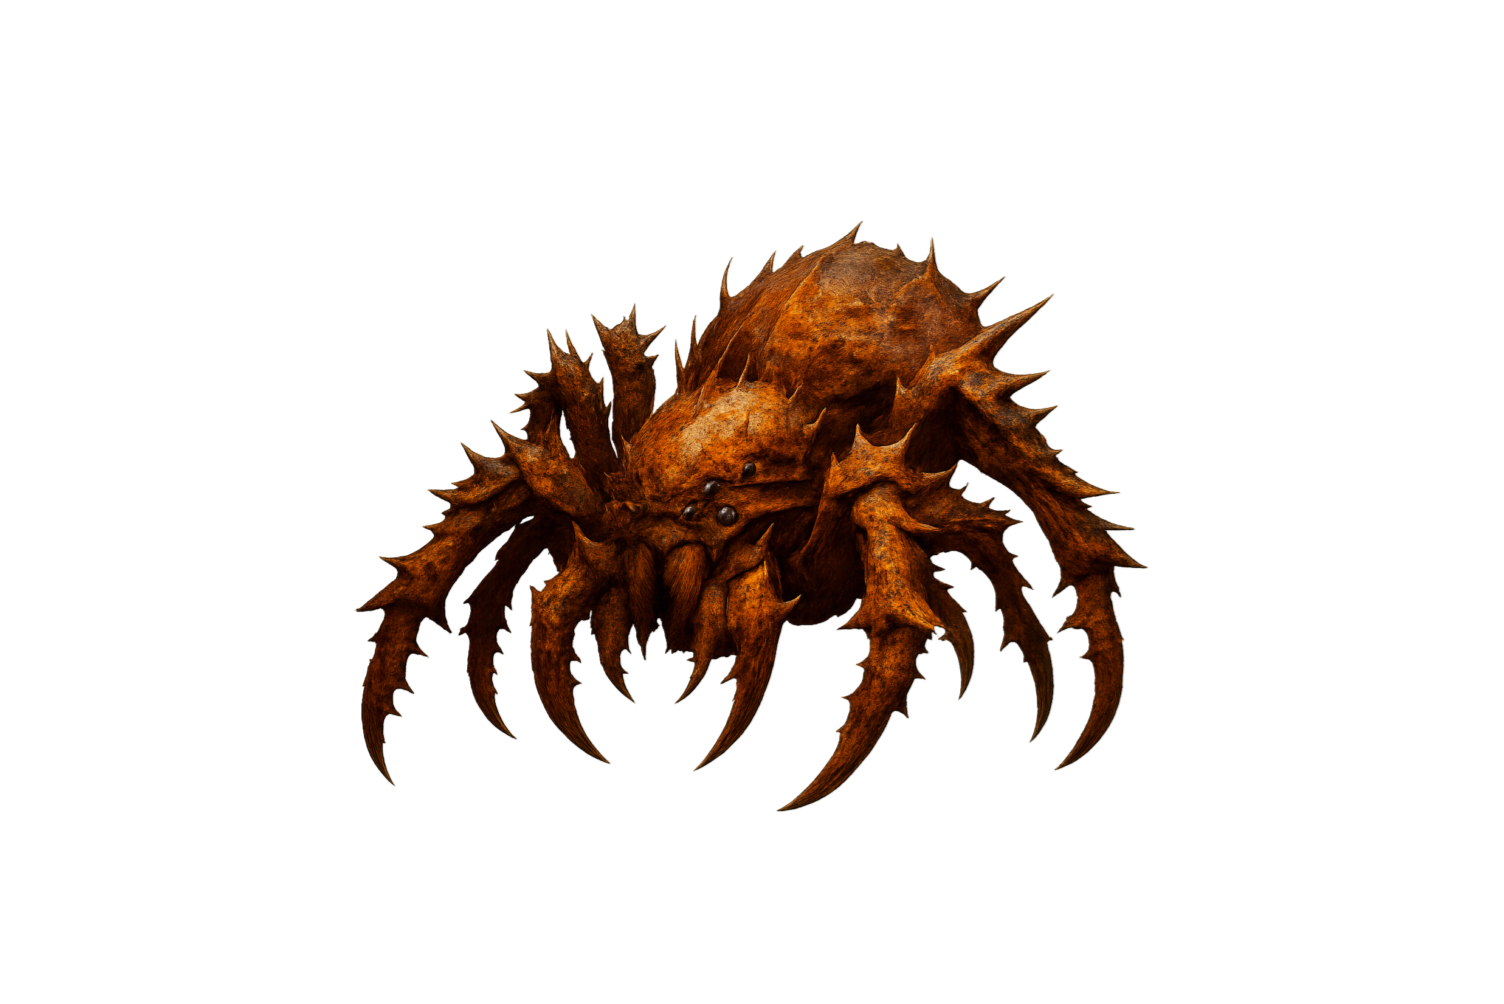
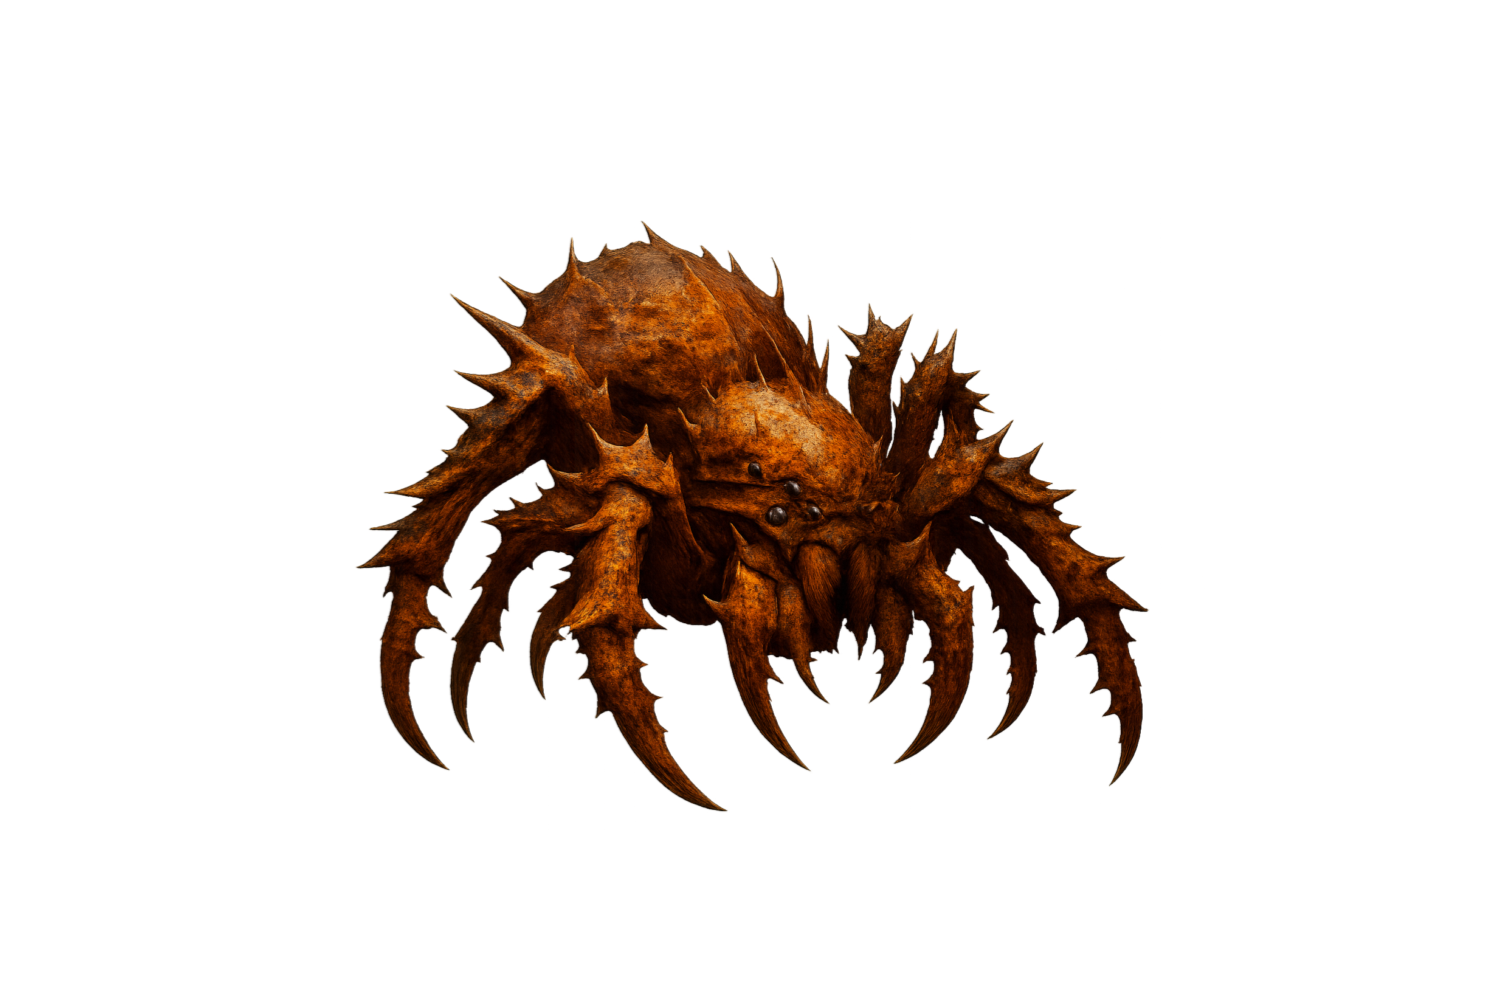
Update live files for new elements in Analytics

Changed region(s): [[0.2188, 0.2161, 0.7812, 0.8028]]

diff --git a/live/js/combat.js b/live/js/combat.js
@@ -165,6 +165,8 @@ async function startCombat(i) {
   const expBar = document.getElementById("exp-bar-container");
   const style = getCurrentWeaponStyle();
 
+  Analytics.startCombat();
+  
   masteryBar.classList.remove(`hidden`);
   //console.log(`masteryBar`, masteryBar);
   expBar.classList.add(`hidden`);
@@ -571,7 +573,7 @@ function renderCombat(renderPotion = false) {
     dlg.innerHTML = `
       <div id="combat-enemy-section"></div>
 
-      <div id="test-holder" class="hidden">
+      <div id="test-holder">
         <button class="menu-item" onclick="toggleBypass()" id="bypass-btn" title="Test">T
           <!-- <img data-src="img/icons/menu-market-icon.png" alt="Zamknij" class="menu-icon" />-->
         </button>

diff --git a/live/js/shrine-chest.js b/live/js/shrine-chest.js
@@ -667,6 +667,7 @@ function spawnLootOnSlot(slotIndex, lootItems, delay = 500) {
           takeGoldByIndex(id, "loot", slotIndex);
         } else {
           isInvEmpty = addItemToInventory(item);
+          Analytics.takeItem();
           playSound(`pickup-item`, 0.4);
           renderCombat();
         }

diff --git a/live/js/map.js b/live/js/map.js
@@ -904,6 +904,8 @@ async function screenLoader(mode = "story") {
     
   const battlePromise = renderFirstBattleView();
     
+  Analytics.firstLocation();
+    
   const minLoaderTime = wait(5200);
     
   await wait(700);
